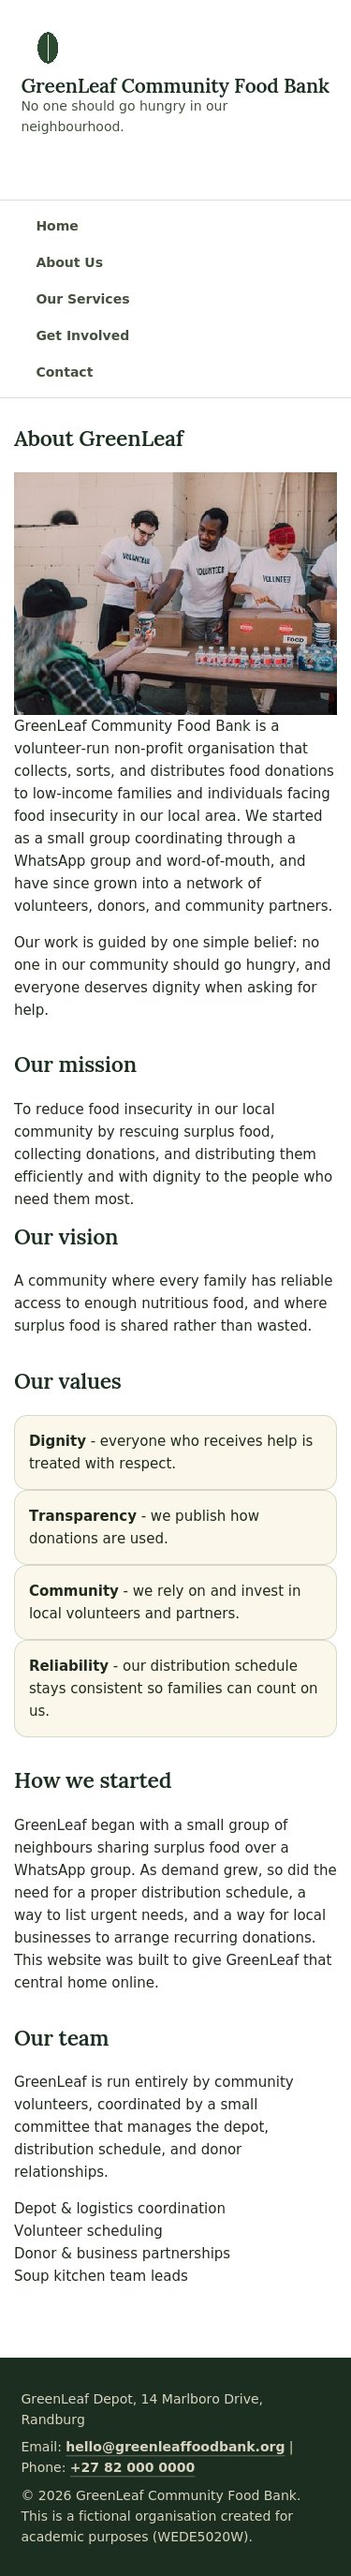
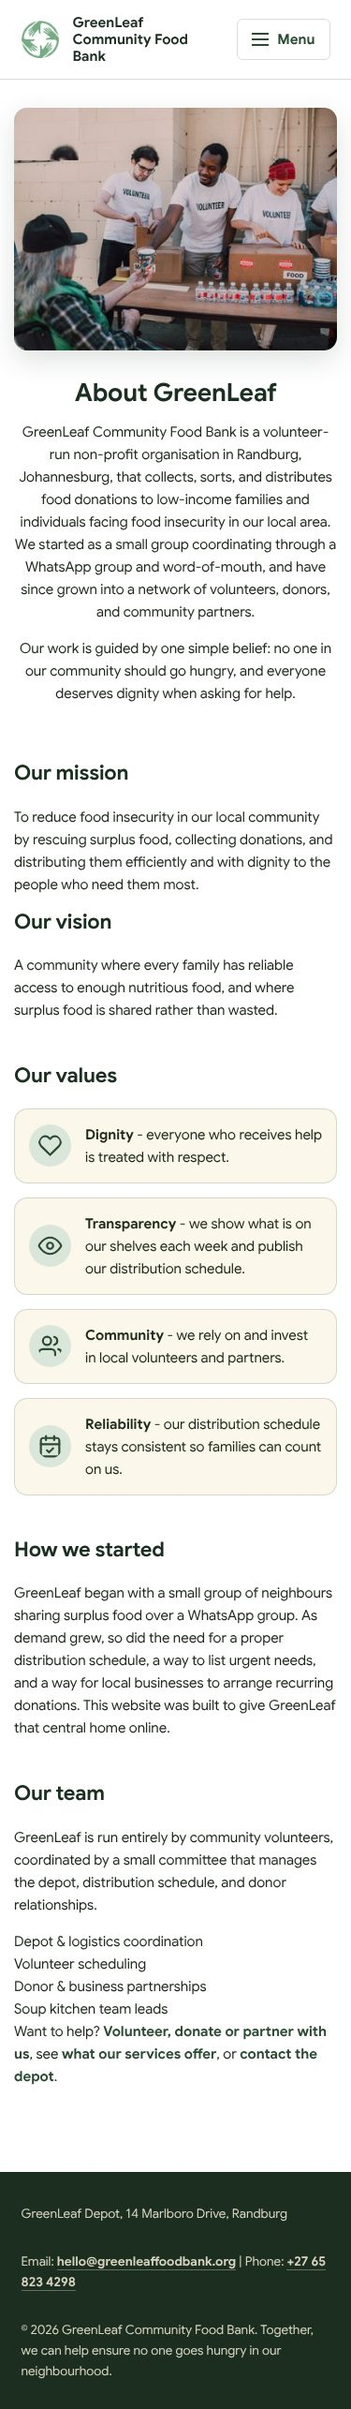
Refresh screenshots to match the current site

diff --git a/README.md b/README.md
@@ -275,7 +275,7 @@ Content images use the HTML `<picture>` element so smaller screens download smal
 
 ## Screenshot evidence
 
-Screenshots were captured with a headless rendering tool at 1440px (desktop), 768px (tablet), and 375px (mobile). Full-size images are in the `screenshots/` folder.
+Screenshots were captured with a headless rendering tool at 1440px (desktop), 768px (tablet), and 375px (mobile). Full-size images are in the `screenshots/` folder. They were re-captured on 2 November 2026 from the current site files, with the Google Sans font loaded. On the two Contact screenshots the map shows the pin without the map pictures, because the capture tool could not reach OpenStreetMap; on the live site the map pictures load.
 
 ### Home
 
@@ -556,6 +556,19 @@ GitHub Pages serves static files and does not let a site set its own HTTP header
 ## Changelog
 
 Newest changes first.
+
+### Part 3: Screenshots refreshed to match the current site
+
+- **Date implemented:** 2 November 2026
+- **What:** All 13 screenshots in the `screenshots/` folder were taken again, so they show the site as it is now.
+- **Why:** The old screenshots were taken on 25 September, before the new header, hero layout, gallery, session finder, map, forms and photos. They no longer matched the live site.
+- **Files changed:** the 13 files in `screenshots/` (same names as before, so the Screenshot evidence tables did not need new links), and `README.md` (the note above the tables and this entry).
+- **How it works:**
+  - Each page was loaded in a headless Chromium browser at 1440px (desktop), 768px (tablet) and 375px (mobile). About and Contact have desktop and mobile shots only, as before.
+  - The page was scrolled to the bottom and back first, so the sections that fade in, the lazy images and the animated counters all show in the full-page picture.
+  - The Google Sans font was loaded from a local copy, because the capture tool could not reach Google Fonts. The screenshots therefore show the same font as the live site.
+  - The map pictures on the Contact screenshots are missing for the reason in the note above.
+- **How to test:** Open `screenshots/get-involved-desktop-1440px.jpg`. It shows the new top photo, the four gallery photos and the volunteer form with its date field. `services-desktop-1440px.jpg` shows the "Find a session" table. Compare any screenshot with the live page.
 
 ### Part 3: "How to update the website" guide (README)
 
